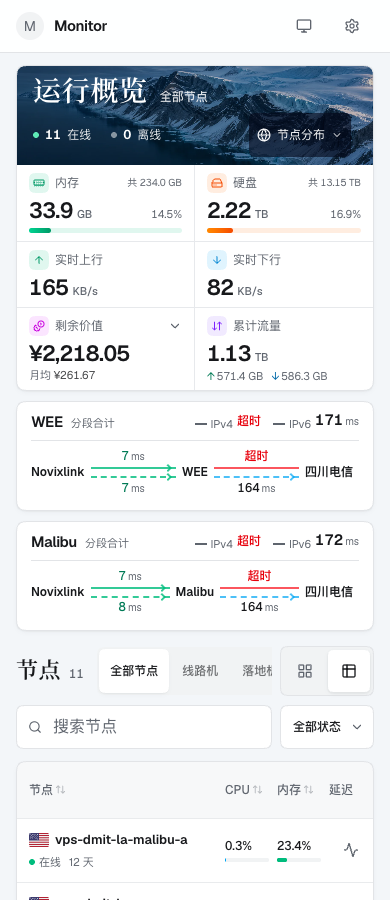
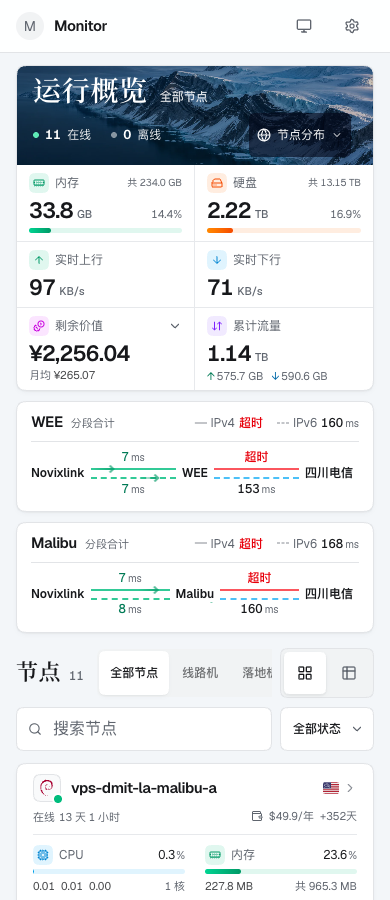
🐛 fix(ui): 对齐线路图例并去除地球蓝色光晕

diff --git a/src/components/home/RelayRoutes.tsx b/src/components/home/RelayRoutes.tsx
@@ -329,24 +329,35 @@ function RouteGroup({
       aria-label={name}
       className="relay-route @container min-w-0 rounded-xl border bg-card px-3.5 pt-2.5 pb-1.5 shadow-xs sm:px-4"
     >
-      <header className="flex min-w-0 flex-wrap items-center justify-between gap-x-3 gap-y-1 border-b pb-2">
+      <header className="flex min-w-0 flex-wrap items-baseline justify-between gap-x-3 gap-y-1 border-b pb-2">
         <div className="flex min-w-0 flex-wrap items-baseline gap-x-2">
           <h3 className="min-w-0 wrap-anywhere text-value font-semibold tracking-tight">{name}</h3>
           {lines.some(line => line.stack) && <span className="text-2xs text-muted-foreground">分段合计</span>}
         </div>
-        <dl aria-label="分段合计" className="ms-auto flex flex-wrap items-baseline justify-end gap-x-3 gap-y-1">
+        <dl
+          aria-label="分段合计"
+          className="ms-auto flex min-w-0 flex-wrap items-baseline justify-end gap-x-3.5 gap-y-1 text-xs leading-5"
+        >
           {lines.map(line => (
-            <div key={line.route.name} className="flex items-baseline gap-1">
-              <dt className="inline-flex items-center gap-1 text-2xs text-muted-foreground">
+            <div key={line.route.name} className="whitespace-nowrap">
+              <dt
+                className={cn(
+                  'inline-block text-muted-foreground',
+                  line.stack && 'relative ps-4 [text-box:trim-both_cap_alphabetic]',
+                )}
+              >
                 {line.stack && (
                   <span
                     aria-hidden="true"
-                    className={cn('w-3 border-t-2 border-current', line.stack === 'v6' && 'border-dashed')}
+                    className={cn(
+                      'absolute start-0 top-1/2 w-3 -translate-y-1/2 border-t-[1.5px] border-muted-foreground/75',
+                      line.stack === 'v6' && 'border-dashed',
+                    )}
                   />
                 )}
                 {pingStackLabel(line.stack) || '合计'}
               </dt>
-              <dd className="text-value font-semibold leading-none">
+              <dd className="ms-1 inline font-medium">
                 <RelayReading value={line.total} />
               </dd>
             </div>

diff --git a/src/components/NodeEarthGlobe.tsx b/src/components/NodeEarthGlobe.tsx
@@ -172,18 +172,18 @@ function getThemeColors(isDark: boolean): GlobeColors {
     return {
       dark: 1,
       mapBrightness: 4,
-      baseColor: [0.3, 0.42, 0.51],
+      baseColor: [0.44, 0.44, 0.44],
       markerColor: [0.2, 0.83, 0.6],
-      glowColor: [0.18, 0.39, 0.48],
+      glowColor: [0.09, 0.09, 0.09],
       arcColor: [0.2, 0.83, 0.6],
     }
   }
   return {
     dark: 0,
     mapBrightness: 6,
-    baseColor: [0.79, 0.88, 0.93],
+    baseColor: [1, 1, 1],
     markerColor: [0.02, 0.59, 0.41],
-    glowColor: [0.87, 0.94, 0.97],
+    glowColor: [1, 1, 1],
     arcColor: [0.06, 0.73, 0.51],
   }
 }

diff --git a/docs/relay-routes.md b/docs/relay-routes.md
@@ -34,7 +34,7 @@
 
 每段显示最新一次探测。超时用红线和「超时」标出，缺测用「无数据」，超出该段有效期显示「已过期」。所有段都有有效延迟时，卡头才显示对应协议的分段合计。刷新失败时保留已有记录，继续按采样时间判断过期。
 
-线路名带有相同前缀和协议后缀（例如 `WEE IPv4`、`WEE IPv6`）且站点相同，会合并为一张卡。卡片区域宽度达到 36rem 时两列并排，窄屏单列。站点名称之间的实线对应 IPv4，虚线对应 IPv6。段延迟分别放在线的上方和下方。多站线路按可用宽度折行，上一行的末站也是下一行的起点。
+线路名带有相同前缀和协议后缀（例如 `WEE IPv4`、`WEE IPv6`）且站点相同，会合并为一张卡。卡头将协议名和合计读数排在同一条基线上，旁边的灰色短线对应下方路径的线型。站点之间用实线表示 IPv4，虚线表示 IPv6，读数分别位于线的上方和下方。卡片区域宽度达到 36rem 时两列并排，窄屏单列。多站线路按可用宽度折行，上一行的末站也是下一行的起点。
 
 点击两站间的线段，或用 Tab 移到线段再按 Enter，可查看各协议最新延迟、近十分钟丢包率及采样时间。按 Esc 会关闭详情并回到原线段。
 

diff --git a/CHANGELOG.md b/CHANGELOG.md
@@ -4,6 +4,11 @@
 
 ## [未发布]
 
+### 修复
+
+- 线路卡顶部的灰色实线和虚线居中对准协议名，协议名、延迟、单位与「超时」共用文字基线
+- 首页 3D 地球在浅色与深色模式下使用中性灰球面，去除边缘的蓝色光晕
+
 ## [0.4.0] - 2026-11-18
 
 ### 新增
